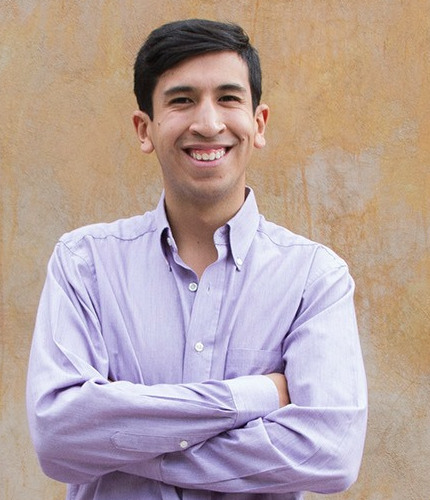
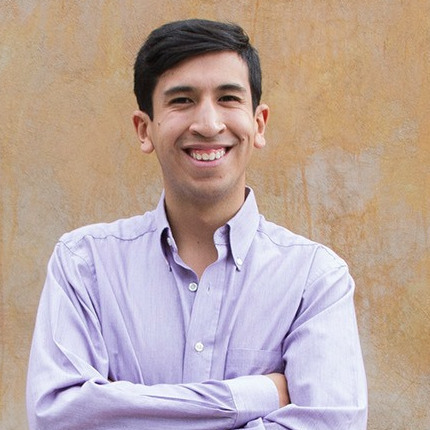
Cambiar la imagen de kuma

diff --git a/index.html b/index.html
@@ -112,12 +112,12 @@ var days = Math.ceil((futuredate.getTime()-today.getTime())/(one_day))
     <div class="wrapper">
       <div class="column column-50">
         <h2>Pedro Kumamoto</h2>
-        <img src="{{ site.baseurl }}/img/kuma.jpg">
+        <img src="{{ site.baseurl }}/img/kuma.gif">
       </div>
 
       <div class="column column-50 column-last">
         <h2>Distrito 10</h2>
-        <div class="flexible-container" style="height:500px; padding-bottom: 10px;"><iframe src="https://www.google.com/maps/d/embed?mid=z1TD728Xq-aQ.kzsyCxPggqIE" width="430" height="500" style="height: 500px"></iframe></div>
+        <div class="flexible-container" style="height:500px; padding-bottom: 10px;"><iframe src="https://www.google.com/maps/d/embed?mid=z1TD728Xq-aQ.kzsyCxPggqIE" width="422" height="422" style="height: 422px; width: 422px;"></iframe></div>
       </div>
     </div>
 
